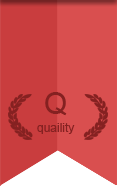
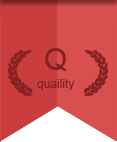
adjusting prep/cook/total times

Changed region(s): [[0.0, 0.338, 1.0, 1.0], [0.0513, 0.338, 0.2821, 0.7606], [0.7179, 0.338, 0.9231, 0.7606]]

diff --git a/src/components/SidePanel.svelte b/src/components/SidePanel.svelte
@@ -8,7 +8,7 @@
   }
 </script>
 <div class="sidepanel">
-  <span class="close" on:click={handleCloseClick}>&times;</span>
+  <span class="close" on:click={handleCloseClick}>close</span>
   <div class="title">{ $currentRecipe.title}</div>
   <section>
     <a class="original-url" href={$currentRecipe.url}>see this recipe in the original website</a>
@@ -25,14 +25,20 @@
       </ul>
     </div>
 
-      <div class="instructions">
-        <h3>Instructions:</h3>
-        <ul>
-          {#each $currentRecipe?.instructions ?? [] as instruction}
-          <li>{ instruction }</li>
-          {/each}
-        </ul>
-      </div>
+    <div class="instructions">
+      <h3>Instructions:</h3>
+      <ul>
+        {#each $currentRecipe?.instructions ?? [] as instruction}
+        <li>{ instruction }</li>
+        {/each}
+      </ul>
+    </div>
+
+    <div class="images">
+      {#each $currentRecipe?.images ?? [] as img}
+        <img src={img} alt="recipe thumbnail"/>
+      {/each}
+    </div>
   </section>
 </div>
 
@@ -40,7 +46,7 @@
   div.sidepanel {
     width: 50%;
     min-width: 460px;
-    background: #eee;
+    background: #f9f9f9;
     color: #222;
     height: 100%;
     position: fixed;
@@ -52,7 +58,12 @@
     font-family: catamaran;
     z-index: 1;
   }
-  .close {
+
+  section {
+    overflow-y: scroll;
+  }
+
+  /*.close {
     background: #222;
     color: #fff;
     display: inline-block;
@@ -65,6 +76,50 @@
     top: 4px;
     box-shadow: 2px 2px #db9595;
     cursor: pointer;
+  }*/
+
+  /*
+  .close {
+        background: #222;
+    color: #fff;
+    display: inline-block;
+    position: absolute;
+    width: auto;
+    height: 31px;
+    text-align: center;
+    left: -109px;
+    top: 0;
+    cursor: pointer;
+    text-orientation: upright;
+
+    background: #cb0808;
+    color: #fff;
+    font-weight: bold;
+    padding: 0 15px;
+  }
+  */
+
+  .close {
+    background: #222;
+    color: #fff;
+    display: inline-block;
+    position: absolute;
+    width: 27px;
+    height: 145px;
+    text-align: center;
+    /* border-radius: 30px; */
+    left: -37px;
+    top: 354px;
+    /* box-shadow: 2px 2px #db9595; */
+    cursor: pointer;
+    text-orientation: upright;
+    writing-mode: vertical-rl;
+    letter-spacing: -11px;
+    text-transform: uppercase;
+    border: 4px solid salmon;
+    background: indianred;
+    color: #000;
+    font-weight: bold;
   }
   section {
     padding: 6px;
@@ -90,5 +145,18 @@
     margin-top: 5px;
     font-size: 12px;
     float: right;
+  }
+
+  .images {
+    display: flex;
+    flex-wrap: wrap;
+    align-items: center;
+    justify-content: center;
+  }
+  .images img {
+    margin: 5px;
+    border: 3px solid indianred;
+    width: 75px;
+    height: 75px;
   }
 </style>

diff --git a/src/components/SiteRecipesContainer.svelte b/src/components/SiteRecipesContainer.svelte
@@ -34,26 +34,20 @@
 			<!-- svelte-ignore a11y-click-events-have-key-events -->
 			<article class="recipe-wrap" on:click={handleOnClick} data-id={recipe.id}>
 				<div class="thumb">
-					<img src={recipe.thumb} alt="finished recipe" />
+					<img src={recipe.images[0]} alt="recipe image" />
 				</div>
         <div class="info-area">
           <div class="title">{recipe.title}</div>
           <div class="info">
               <div class="times">
+								{#each recipe.times as time}
                 <div>
-                  <span>Prep time:</span>
-                  <span>{recipe.prepTime} mins</span>
-                </div>
-                <div>
-                  <span>Cook time:</span>
-                  <span>{recipe.cookTime} mins</span>
-                </div>
-                <div>
-                  <span>Total time:</span>
-                  <span>{parseInt(recipe.prepTime) + parseInt(recipe.cookTime)} mins</span>
-                </div>
+									{#each time as text}
+										<span>{text}</span>
+									{/each}
+								</div>
+								{/each}
               </div>
-
               <div class="servings-wrap">
                 <span>Servings:</span>
                 <span>{recipe.servings}</span>
@@ -139,9 +133,9 @@
     display: flex;
   }
   .times > div {
-    margin-right: 10px;
+    margin-right: 20px;
   }
-  .times > div > span:last-child, .servings-wrap > span:last-child {
+  .times > div > span:nth-child(2), .servings-wrap > span:last-child {
     color: #eee;
   }
 

diff --git a/src/routes/+page.svelte b/src/routes/+page.svelte
@@ -51,7 +51,7 @@
             {#if site.isChecked}
               {#if site.isFetching}
                 <Loading siteName={site.name} />
-              {:else if site.recipes.length}
+              {:else if site.recipes?.length}
                 <SiteRecipesContainer result={site} />
               {/if}
             {/if}
@@ -93,7 +93,7 @@
     }
     nav a {
       text-decoration: none;
-      padding: 5px 10px;
+      padding: 5px 14px;
       margin: 5px;
       border-radius: 15px;
       color: #eee;
@@ -143,7 +143,7 @@
       height: 411px;
       top: -77px;
       background-image: url(/img/blue/ribbon-top.png), url(/img/blue/ribbon-bottom.png);
-      background-position: left top, left bottom;
+      background-position: left top, left 190px;
       background-repeat: no-repeat, no-repeat;
     }
 